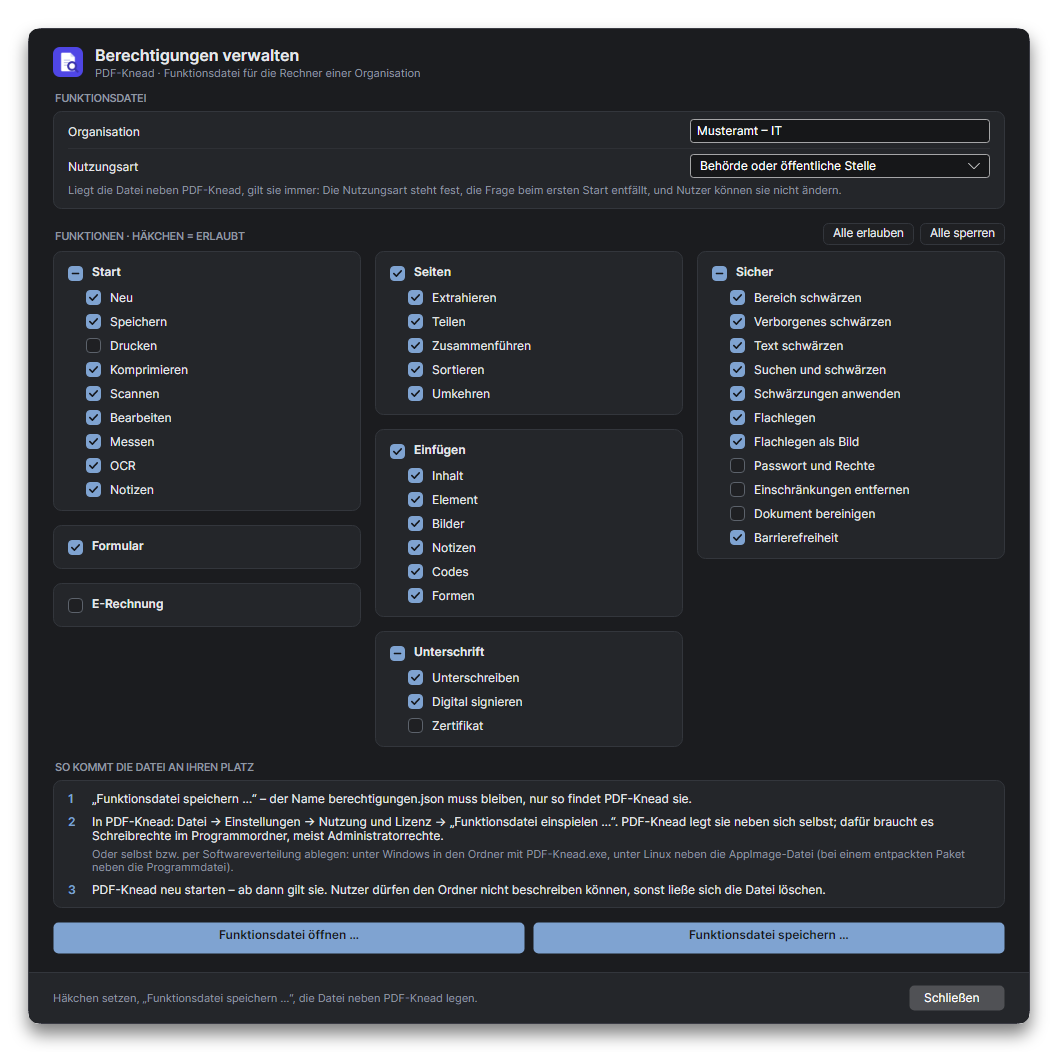
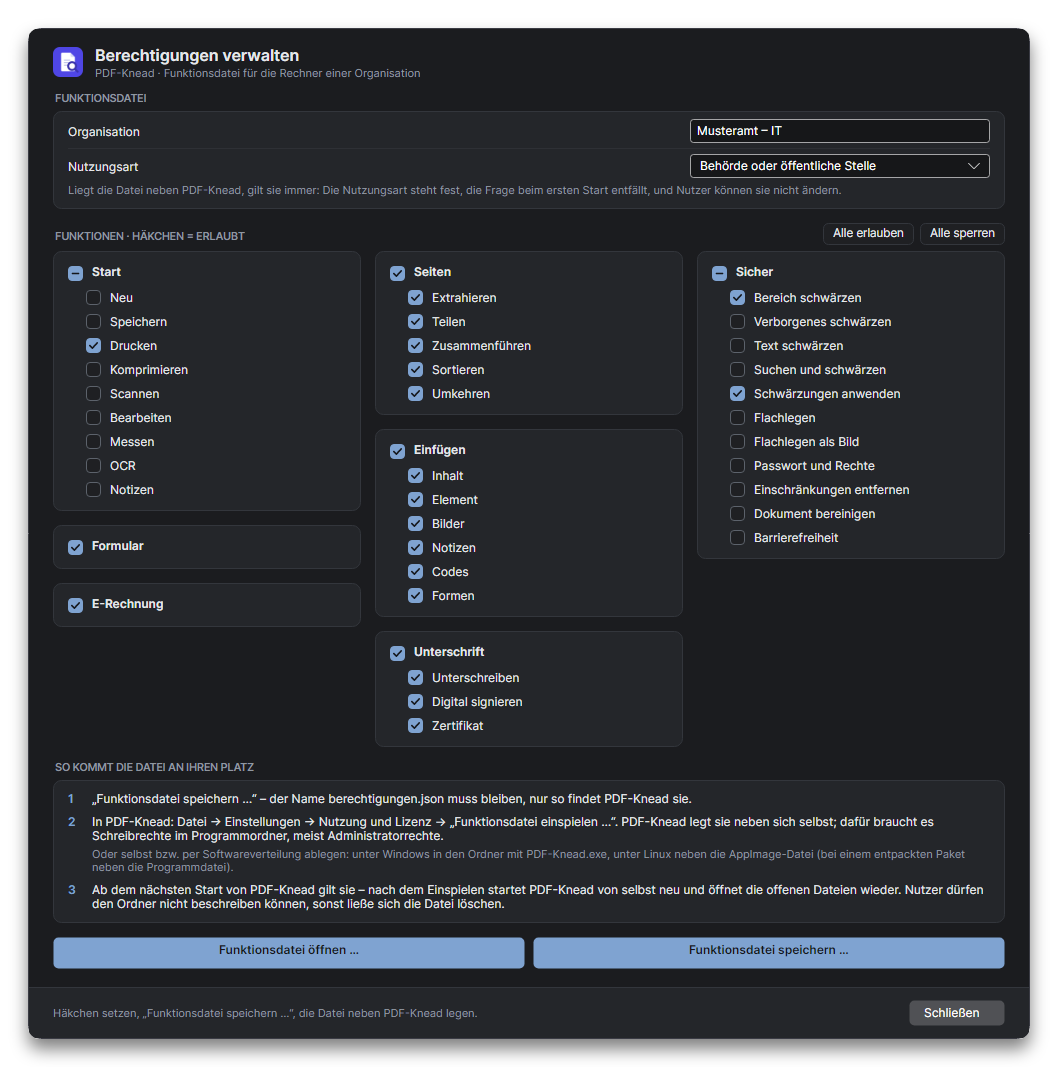
Startseite: Berechtigungen mit FunktionManager, Fenster und Menüband bebildert

diff --git a/README.md b/README.md
@@ -342,8 +342,17 @@ Teilen und zusammenführen, ohne den Überblick zu verlieren: Jede Seite ist als
 ### Administrative Berechtigungen
 
 <p align="center">
-  <img src="docs/bilder/readme/berechtigungen-verwalten.png" width="720" alt="Verwaltungswerkzeug: Organisation, Nutzungsart und je Reiter des Programms die Funktionen mit Häkchen">
+  <img src="docs/bilder/readme/berechtigungen-verwalten.png" width="49%" align="top" alt="FunktionManager: Organisation, Nutzungsart und je Reiter des Programms die Funktionen mit Häkchen – unter Start nur Drucken, unter Sicher nur Bereich schwärzen und Schwärzungen anwenden">
+  <img src="docs/bilder/readme/berechtigungen.png" width="49%" align="top" alt="Fenster „Berechtigungen“ in PDF-Knead: alle Funktionen je Reiter, grüner Haken erlaubt, rotes Kreuz gesperrt">
 </p>
+<p align="center">
+  <img src="docs/bilder/readme/menueband-start.png" width="100%" alt="Reiter Start mit dieser Funktionsdatei: nur Drucken, Öffnen und die Ansicht sind bedienbar, alles andere ist ausgegraut">
+  <img src="docs/bilder/readme/menueband-sicher.png" width="100%" alt="Reiter Sicher mit dieser Funktionsdatei: nur Bereich schwärzen, Schwärzungen anwenden und die Anzeige der Berechtigungen sind bedienbar">
+</p>
+
+Dieselbe Funktionsdatei überall: im FunktionManager erstellt (links), in PDF-Knead unter „Berechtigungen anzeigen“ (rechts) und auf
+dem Menüband – unter „Start“ bleibt nur „Drucken“, unter „Sicher“ nur „Bereich schwärzen“ und „Schwärzungen anwenden“. Öffnen, Ansehen
+und Suchen gehen immer.
 
 Behörden und größere Firmen müssen festlegen können, wer was darf: keine „Einschränkungen entfernen“ in der Sachbearbeitung, Signieren
 mit Zertifikat nur, wo es vorgesehen ist, Drucken nur, wo es gebraucht wird. Dafür gibt es die Funktionsdatei – ohne Server, ohne
@@ -351,18 +360,15 @@ Anmeldung, ohne dass etwas gesendet wird.
 
 - **Eine kleine Datei neben dem Programm** (`berechtigungen.json`) legt fest, welche Funktionen gesperrt sind: geordnet nach den Reitern
   des Programms, jede Funktion einzeln, Formulare als Ganzes. Die IT verteilt sie wie jede andere Datei.
-- **Mit dem Verwaltungswerkzeug erstellt:** Häkchen setzen, speichern, in PDF-Knead mit „Funktionsdatei einspielen …“ neben das
-  Programm legen. Wo Nutzer nicht schreiben dürfen, lässt sie sich nicht umgehen – auch die Nutzungsart steht dann fest.
+- **Mit dem FunktionManager erstellt,** der jedem Paket beiliegt: Häkchen setzen, speichern, in PDF-Knead mit „Funktionsdatei
+  einspielen …“ neben das Programm legen – PDF-Knead startet danach von selbst neu. Wo Nutzer nicht schreiben dürfen, lässt sie sich
+  nicht umgehen – auch die Nutzungsart steht dann fest.
 - **Nicht an Lizenzen geknüpft:** Berechtigungen regeln, was Mitarbeiter dürfen, nicht, was bezahlt ist. Sie gelten für alle Funktionen,
   auch für die freien.
 - **Im Zweifel sicher:** Eine beschädigte Datei sperrt alle einschränkbaren Funktionen, statt alles zu erlauben. Öffnen, Ansehen und
   Prüfen gehen immer.
 - **Für jeden sichtbar:** Gesperrte Knöpfe sind ausgegraut und sagen, warum; unter Einstellungen → „Berechtigungen anzeigen“ sieht jeder,
   was gilt.
-
-<p align="center">
-  <img src="docs/bilder/readme/berechtigungen.png" width="560" alt="Fenster „Berechtigungen“: alle Funktionen je Reiter, grüner Haken erlaubt, rotes Kreuz gesperrt">
-</p>
 
 ### Druckvorstufe: Überdrucken sehen
 

diff --git a/README.en.md b/README.en.md
@@ -342,8 +342,17 @@ Split and merge without losing track: every page can be seen as a preview, every
 ### Administrative permissions
 
 <p align="center">
-  <img src="docs/bilder/readme/berechtigungen-verwalten.png" width="720" alt="Administration tool: organization, kind of use and, for each tab of the program, its functions with ticks">
+  <img src="docs/bilder/readme/berechtigungen-verwalten.png" width="49%" align="top" alt="FunktionManager: organization, kind of use and, for each tab of the program, its functions with ticks – under Start only printing, under Secure only area redaction and applying redactions">
+  <img src="docs/bilder/readme/berechtigungen.png" width="49%" align="top" alt="“Permissions” window in PDF-Knead: every function by tab, green tick allowed, red cross switched off">
 </p>
+<p align="center">
+  <img src="docs/bilder/readme/menueband-start.png" width="100%" alt="Start tab with this function file: only printing, opening and the view can be used, everything else is greyed out">
+  <img src="docs/bilder/readme/menueband-sicher.png" width="100%" alt="Secure tab with this function file: only area redaction, applying redactions and showing the permissions can be used">
+</p>
+
+The same function file everywhere: made in the FunktionManager (left), in PDF-Knead under “Show permissions” (right) and on the
+ribbon – under “Start” only printing is left, under “Secure” only area redaction and applying redactions. Opening, viewing and searching
+always work.
 
 Authorities and larger companies need to decide who may do what: no “Remove restrictions” for case workers, signing with a certificate
 only where it is intended, printing only where it is needed. That is what the function file is for – no server, no sign-in, nothing
@@ -351,18 +360,15 @@ sent anywhere.
 
 - **One small file beside the program** (`berechtigungen.json`) says which functions are switched off: ordered by the tabs of the
   program, each function on its own, forms as a whole. IT hands it out like any other file.
-- **Made with the administration tool:** set the ticks, save, and put it beside the program with “Install function file …” in
-  PDF-Knead. Where users cannot write, it cannot be bypassed – the kind of use is then fixed as well.
+- **Made with the FunktionManager,** which comes with every package: set the ticks, save, and put it beside the program with
+  “Install function file …” in PDF-Knead – PDF-Knead then starts anew by itself. Where users cannot write, it cannot be bypassed – the
+  kind of use is then fixed as well.
 - **Not tied to licenses:** permissions decide what staff may do, not what has been paid for. They apply to every function, the free
   ones included.
 - **Safe when in doubt:** a damaged file switches off every function that can be restricted instead of allowing everything. Opening,
   viewing and checking always work.
 - **Visible to everyone:** switched-off buttons are greyed out and say why; under Settings → “Show permissions” everyone sees what
   applies.
-
-<p align="center">
-  <img src="docs/bilder/readme/berechtigungen.png" width="560" alt="“Permissions” window: every function by tab, green tick allowed, red cross switched off">
-</p>
 
 ### Prepress: seeing overprint
 
